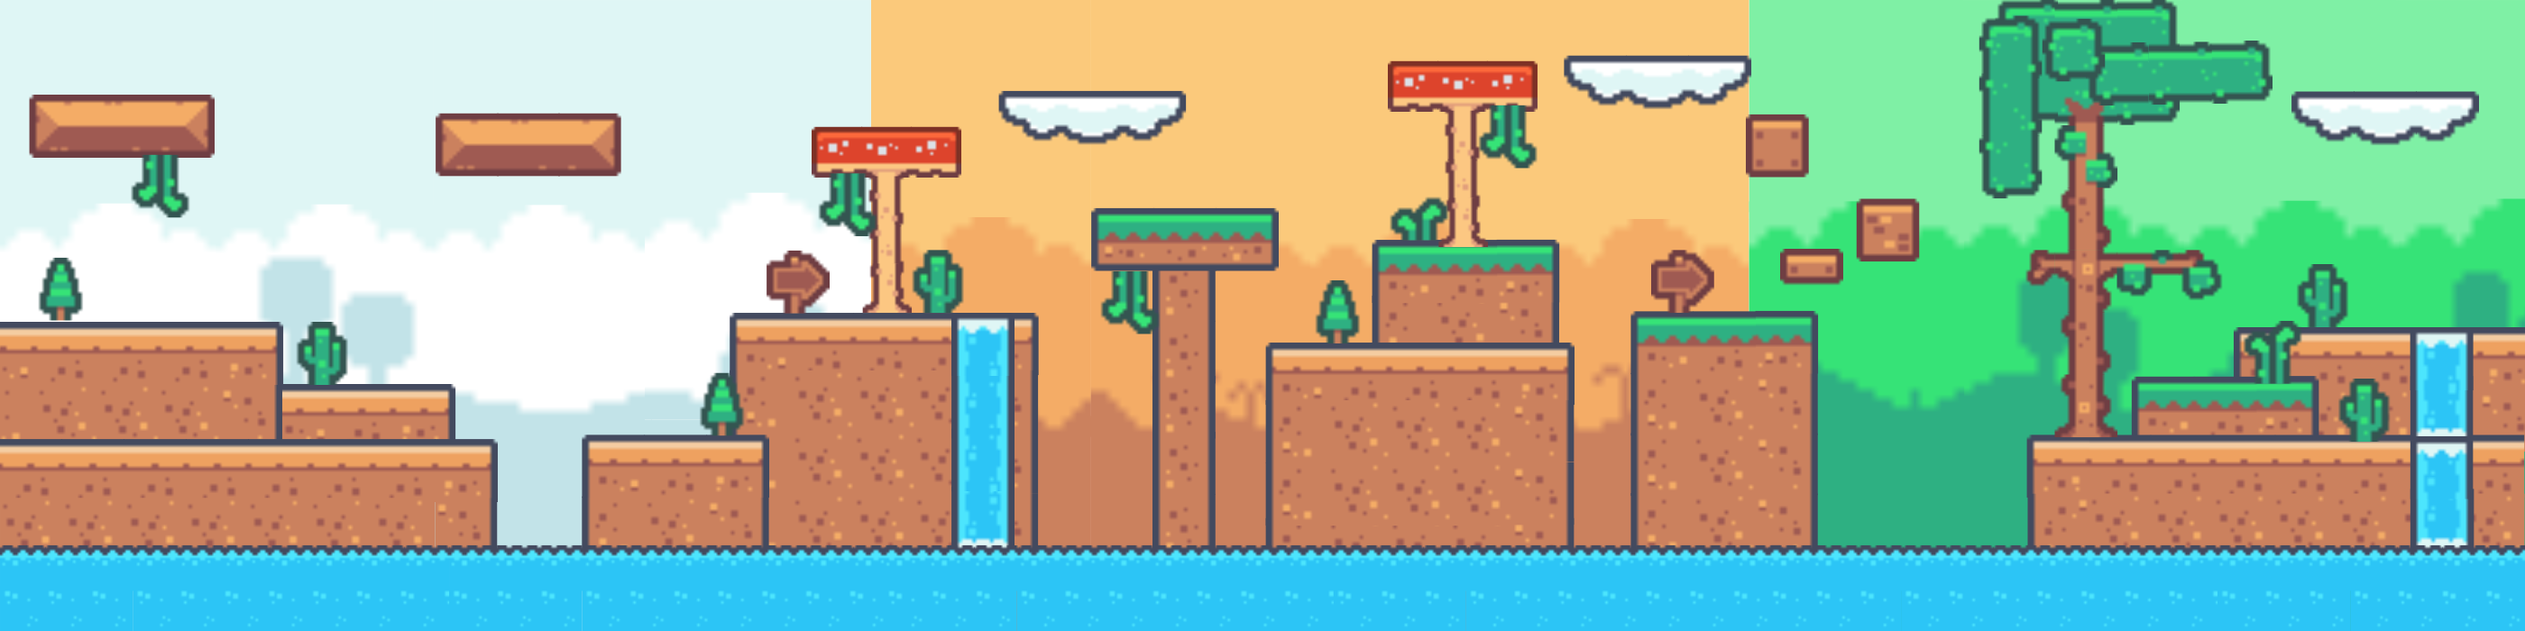
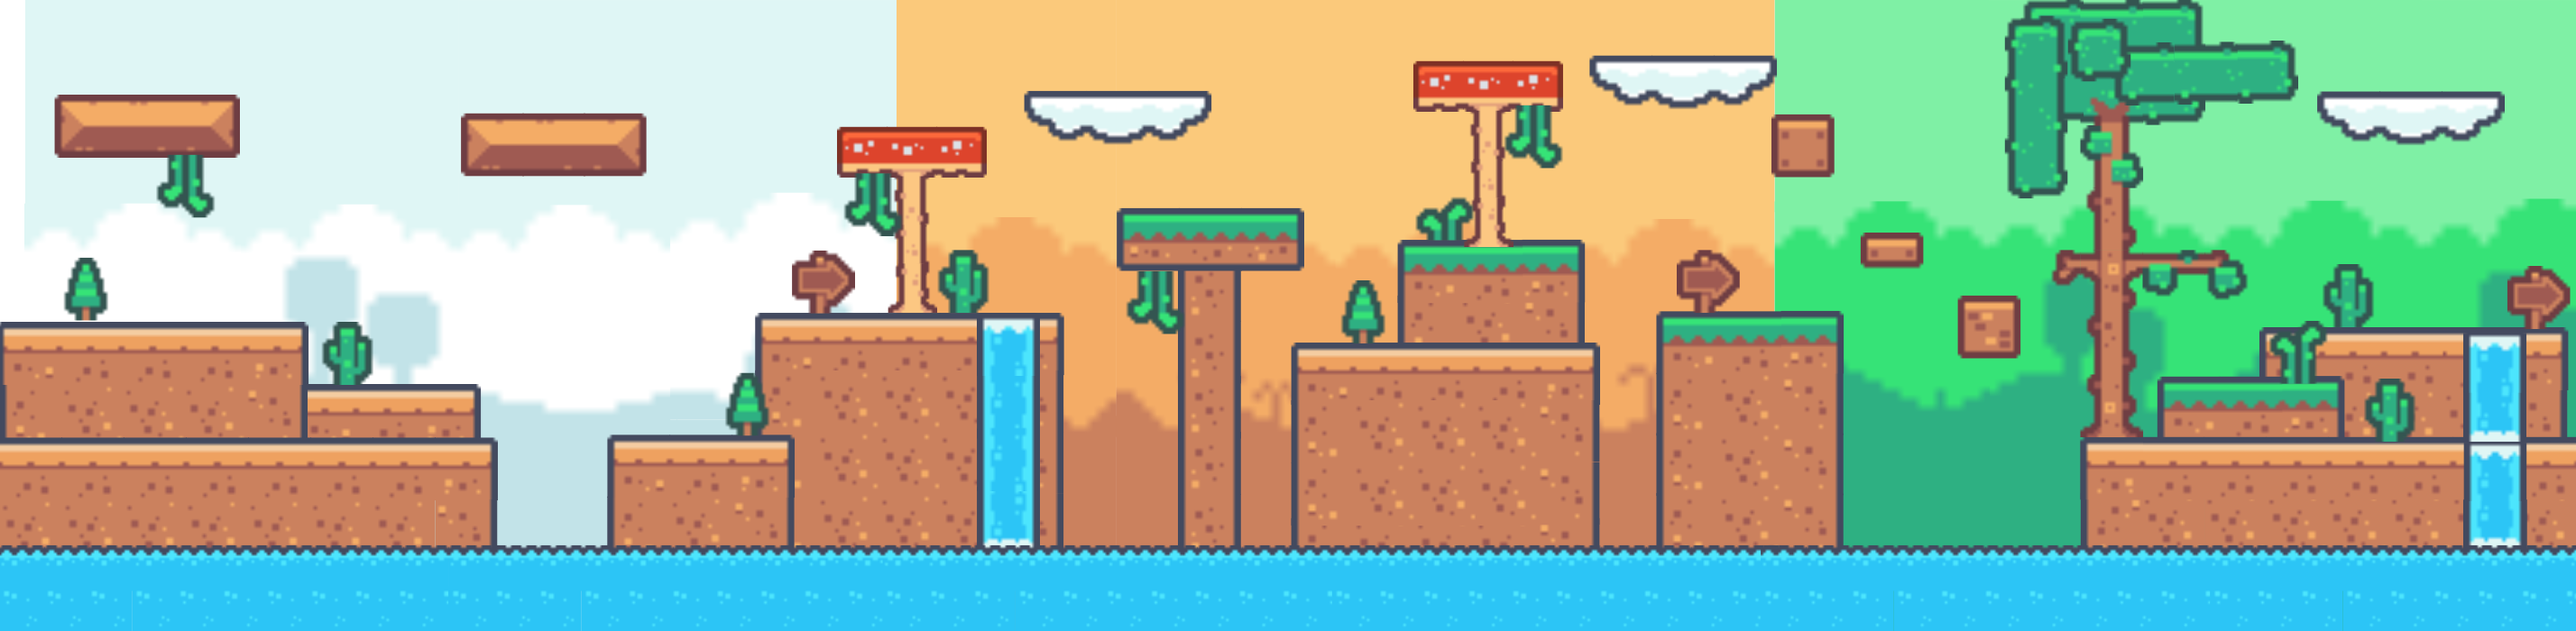
Refazendo lógica do background e movimento do jogo

diff --git a/main.py b/main.py
@@ -4,19 +4,21 @@ import math
 import random
 
 # Inicialização de variáveis
-WIDTH = 700
+WIDTH = 900
 HEIGHT = 700
 GAME_STATE = "PLAY" #TODO:APAGAR
 # GAME_STATE = "START" 
 sounds_on = True
 score = 0
 lives = 3
-stage = 0
+stage = 1 #TODO: Mudar para 0
 
 #background
-background = Actor("background")
+background = Actor("bg1")
 background.x = WIDTH // 2
 background.y = HEIGHT // 2
+background.images = ["bg1","bg2","bg3"]
+background.frame = 0
 bg_x = 0;
 
 #Jogador
@@ -92,8 +94,8 @@ def draw():
         if stage == 1:
             screen.clear()
             screen.fill((255,255,255))  # Cor de fundo branca
-            screen.blit("background", (bg_x, 0))
-            screen.blit("background", (bg_x + WIDTH, 0))
+            screen.blit("bg1", (bg_x, 0))
+            screen.blit("bg1", (bg_x + WIDTH, 0))
 
             alien.draw()
             move_player()
@@ -104,11 +106,17 @@ def draw():
 
             if alien_collided:
                 alien_velocity_y = 0
+            
+            if alien.y >=600:
+                lives_over()
+            
+            if alien.x >=880:
+                next_stage()
         if stage == 2:
             screen.clear()
             screen.fill((255,255,255))  # Cor de fundo branca
-            screen.blit("background", (bg_x, 0))
-            screen.blit("background", (bg_x + WIDTH, 0))
+            screen.blit("bg2", (bg_x, 0))
+            screen.blit("bg2", (bg_x + WIDTH, 0))
 
             alien.draw()
             move_player()
@@ -119,11 +127,17 @@ def draw():
 
             if alien_collided:
                 alien_velocity_y = 0
+
+            if alien.y >=600:
+                lives_over()
+            
+            if alien.x >=880:
+                next_stage()
         if stage == 3:
             screen.clear()
             screen.fill((255,255,255))  # Cor de fundo branca
-            screen.blit("background", (bg_x, 0))
-            screen.blit("background", (bg_x + WIDTH, 0))
+            screen.blit("bg3", (bg_x, 0))
+            screen.blit("bg3", (bg_x + WIDTH, 0))
 
             alien.draw()
             move_player()
@@ -134,11 +148,20 @@ def draw():
 
             if alien_collided:
                 alien_velocity_y = 0
+            
+            if alien.y >=600:
+                lives_over()
+            
+            if alien.x >=880:
+                next_stage()
 
         #TODO: APAGAR TESTES DE POSIÇÃO
-        screen.draw.text(f"BGX: {bg_x}, Y: {background.height}", (10, 10), color="black")
+        # screen.draw.text(f"BGX: {bg_x}, Y: {background.height}", (10, 10), color="black")
         # screen.draw.text(f"AlienX: {ax}", (10, 30), color="black")
         screen.draw.text(f"Mouse: {mouse_x}, {mouse_y}", (mouse_x, mouse_y), fontsize=24, color="red")
+        screen.draw.text(f"Stage: {stage}", (10, 10), color="black")
+        screen.draw.text(f"Lives: {lives}", (10, 30), color="black")
+        screen.draw.text(f"Score: {score}", (10, 50), color="black")
         
 
     elif GAME_STATE == "WIN":
@@ -197,7 +220,7 @@ def lives_over():
     global lives
     global GAME_STATE
     lives -=1
-    if lives < 0:
+    if lives > 0:
         alien.y = 0
     else:
         GAME_STATE = "END"
@@ -207,25 +230,26 @@ def next_stage():
     global stage
     if GAME_STATE == "PLAY" and lives > 0 and stage <= 2:
         stage +=1
+        background.frame += 1
 
 # Função para movimento do Jogador
 def move_player():
     global bg_x
     global alien_collided
         #velocidade Y do alien
-    if keyboard.left and bg_x < 0 :
-        # alien.x -= 2  # Move para a esquerda
-        bg_x += 2
-        for block in invisible_blocks:
-            block.x += 2
-    if keyboard.right and bg_x > -WIDTH*4:
-        # alien.x += 2  # Move para a direita
-        bg_x -= 2
-        for block in invisible_blocks:
-            block.x -= 2
-    if keyboard.right and bg_x == -WIDTH*4:
+    if keyboard.left :
+        alien.x -= 2  # Move para a esquerda
+        # bg_x += 2
+        # for block in invisible_blocks:
+        #     block.x += 2
+    if keyboard.right:
         alien.x += 2  # Move para a direita
         # bg_x -= 2
+        # for block in invisible_blocks:
+        #     block.x -= 2
+    # if keyboard.right and bg_x == -WIDTH*4:
+    #     alien.x += 2  # Move para a direita
+    #     # bg_x -= 2
     if keyboard.up:
         alien.y -= 10  # Move para cima
         alien_collided = False
